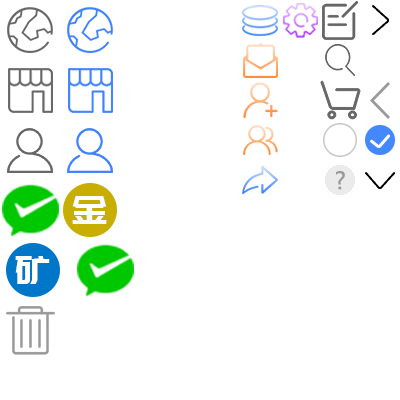
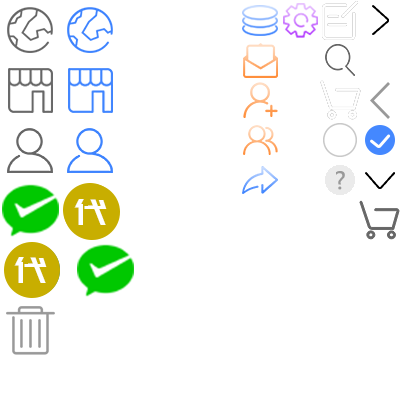
20180716

diff --git a/src/components/store/apply.vue b/src/components/store/apply.vue
@@ -15,13 +15,13 @@
       <li class="apply-way" @click="applyPop(1)">
         <router-link to="">
           <i class="icon icon-sgj"></i>
-          <p>SG金币支付</p>
+          <p>代币支付</p>
         </router-link>
       </li>
       <li class="apply-way" @click="applyPop(2)">
         <router-link to="">
           <i class="icon icon-sgk"></i>
-          <p>微信+SG矿币支付</p>
+          <p>微信+代币支付</p>
         </router-link>
       </li>
     </ul>
@@ -44,7 +44,8 @@ export default {
       applyWay: '',
       applyOrderCode: '',
       applyPsd: [],
-      finalPsd: ''
+      finalPsd: '',
+      way: ''
     }
   },
   components: {
@@ -52,46 +53,64 @@ export default {
   },
   methods: {
     applyPop (idx) {
-      this.finalOrder['token'] = token
-      switch (idx) {
-        case 0:
-          this.applyWay = 'wx'
-          this.finalOrder['pay_channel'] =  this.applyWay;
-          let form = this.$qs.stringify(this.finalOrder);
-          this.$http.post(url + 'createOrder', form)
-            .then(res => {
-              if (res.data.code === 200) {
-                this.applyOrderCode = res.data.data;
-                window.location.href = url + 'OrderPay?token=' + token + '&order_sn=' + this.applyOrderCode + '&payment_password=' + this.finalPsd
-              }
-            })
-            .catch(err => {
-              console.log(err)
-            })
-          break;
-        case 1:
-          this.applyWay = 'gb';
-          this.finalOrder['pay_channel'] =  this.applyWay;
-          this.applyPop_pop_up = true;
-          break;
-        case 2:
-          this.applyWay = 'wx_kb';
-          this.finalOrder['pay_channel'] =  this.applyWay;
-          let form2 = this.$qs.stringify(this.finalOrder);
-          this.$http.post(url + 'createOrder', form2)
-            .then(res => {
-              if (res.data.code === 200) {
-                this.applyOrderCode = res.data.data;
-                window.location.href = url + 'OrderPay?token=' + token + '&order_sn=' + this.applyOrderCode + '&payment_password=' + this.finalPsd
-              }
-            })
-            .catch(err => {
-              console.log(err)
-            })
-          break;
-        default:
-          return false;
+      console.log(this.way.way)
+      if (this.way.way == 0) {
+        this.finalOrder['token'] = token
+        switch (idx) {
+          case 0:
+            this.applyWay = 'wx'
+            this.finalOrder['pay_channel'] =  this.applyWay;
+            let form = this.$qs.stringify(this.finalOrder);
+            this.$http.post(url + 'createOrder', form)
+              .then(res => {
+                if (res.data.code === 200) {
+                  this.applyOrderCode = res.data.data;
+                  window.location.href = url + 'OrderPay?token=' + token + '&order_sn=' + this.applyOrderCode + '&payment_password=' + this.finalPsd
+                }
+              })
+              .catch(err => {
+                console.log(err)
+              })
+            break;
+          case 1:
+            this.applyWay = 'gb';
+            this.finalOrder['pay_channel'] =  this.applyWay;
+            this.applyPop_pop_up = true;
+            break;
+          case 2:
+            this.applyWay = 'wx_kb';
+            this.finalOrder['pay_channel'] =  this.applyWay;
+            let form2 = this.$qs.stringify(this.finalOrder);
+            this.$http.post(url + 'createOrder', form2)
+              .then(res => {
+                if (res.data.code === 200) {
+                  this.applyOrderCode = res.data.data;
+                  window.location.href = url + 'OrderPay?token=' + token + '&order_sn=' + this.applyOrderCode + '&payment_password=' + this.finalPsd
+                }
+              })
+              .catch(err => {
+                console.log(err)
+              })
+            break;
+          default:
+            return false;
+        }
+      } else if (this.way.way == 1) {
+        var c_orderSn = localStorage.getItem('orderSn');
+        console.log(c_orderSn)
+        switch (idx) {
+          case 0:
+            window.location.href = url + 'OrderPay?token=' + token + '&order_sn=' + c_orderSn + '&payment_password=' + this.finalPsd
+            break;
+          case 1:
+            break;
+          case 2:
+            break;
+          default:
+            return false;
+        }
       }
+
       //
     },
     passwordArr (e) {
@@ -132,6 +151,8 @@ export default {
   },
   created () {
     this.finalOrder = JSON.parse(localStorage.getItem('applyOrder'))
+    this.way = this.$route.params
+    console.log()
   }
 }
 </script>

diff --git a/src/components/store/myOrder.vue b/src/components/store/myOrder.vue
@@ -30,9 +30,9 @@
         <div class="myOrderInfo">
           <p><span>订单编号：</span>{{order.sn}}</p>
           <p><span>下单时间：</span>{{order.created_at}}</p>
-          <p><span>支付合计：<i>10元+20积分</i></span></p>
-          <p><span>支付方式：</span>微信支付</p>
-          <p><span>快递单号：<input id="txt" value="12345678999" readonly></span><i @click="copyTxt()" class="copy">一键复制</i></p>
+          <p v-if="order.status !==1"><span>支付合计：<i>10元+20积分</i></span></p>
+          <p v-if="order.status !==1"><span>支付方式：</span>微信支付</p>
+          <p v-if="order.status !==1"><span>快递单号：<input id="txt" value="12345678999" readonly></span><i @click="copyTxt()" class="copy">一键复制</i></p>
           <p><span>运　　费：0</span></p>
         </div>
         <div class="myOrder_receive">
@@ -44,11 +44,11 @@
         </div>
         <p class="applyTui">
           <span class="fr" @click="cancelOrder()" v-if="order.status ===1">取消订单</span>
-          <span class="fr" @click="orderApply()" v-if="order.status ===1">去支付</span>
+          <span class="fr" @click="orderApply(order)" v-if="order.status ===1">去支付</span>
           <span class="fr" @click="confirmReceipt()" v-if="order.status ===2">确认收货</span>
-          <span class="fr" @click="applyReturnGoods()" v-if="order.status ===1">申请退款</span>
-          <span class="fr" @click="logisticsQuery()" v-if="order.status ===1">物流查询</span>
-          <span class="fr" @click="applyReturnGoodsDetail()" v-if="order.status ===1">查看详情</span>
+          <span class="fr" @click="applyReturnGoods()" v-if="order.status ===3">申请退款</span>
+          <span class="fr" @click="logisticsQuery()" v-if="order.status ===3">物流查询</span>
+          <span class="fr" @click="applyReturnGoodsDetail()" v-if="order.status ===5">查看详情</span>
         </p>
       </div>
       <!--&lt;!&ndash;待付款&ndash;&gt;
@@ -284,7 +284,15 @@ export default {
       this.getOrderData(this.way, 1)
     },
     cancelOrder () {},
-    orderApply () {},
+    // 去支付
+    orderApply (e) {
+      // console.log(e)
+      var orderId = e.id
+      this.$router.push({
+        path: '/apply/' + 1
+      });
+      localStorage.setItem('orderId', orderId)
+    },
     confirmReceipt () {},
     applyReturnGoods () {},
     logisticsQuery () {},

diff --git a/src/components/store/details.vue b/src/components/store/details.vue
@@ -30,7 +30,7 @@
       <router-link to="/car">
         <div class="buyicon">
           <span v-if="shopCarShow">{{shopCarNum}}</span>
-          <i class="icon icon-car"></i>
+          <i class="icon icon-car-d"></i>
         </div>
       </router-link>
       <p @click="format(1)">加入购物车</p>

diff --git a/src/components/store/confirmOrder.vue b/src/components/store/confirmOrder.vue
@@ -82,7 +82,9 @@ export default {
         remark: this.buyerMsg
       }
       localStorage.setItem('applyOrder', JSON.stringify(applyOrder))
-      this.$router.push('/apply')
+      this.$router.push({
+        path: '/apply/' + 0
+      })
     }
   },
   created () {

diff --git a/src/assets/less/base.less b/src/assets/less/base.less
@@ -269,6 +269,11 @@ button {
     height: 30px;
     background-position: 0 -120px;
   }
+  &.icon-car-d {
+    width: 20px;
+    height: 20px;
+    background-position: -180px -100px;
+  }
   &.icon-car {
     width: 20px;
     height: 20px;

diff --git a/src/router/index.js b/src/router/index.js
@@ -185,7 +185,7 @@ export default new Router({
       component: car
     },
     {
-      path: '/apply',
+      path: '/apply/:way',
       name: 'apply',
       component: apply
     },
